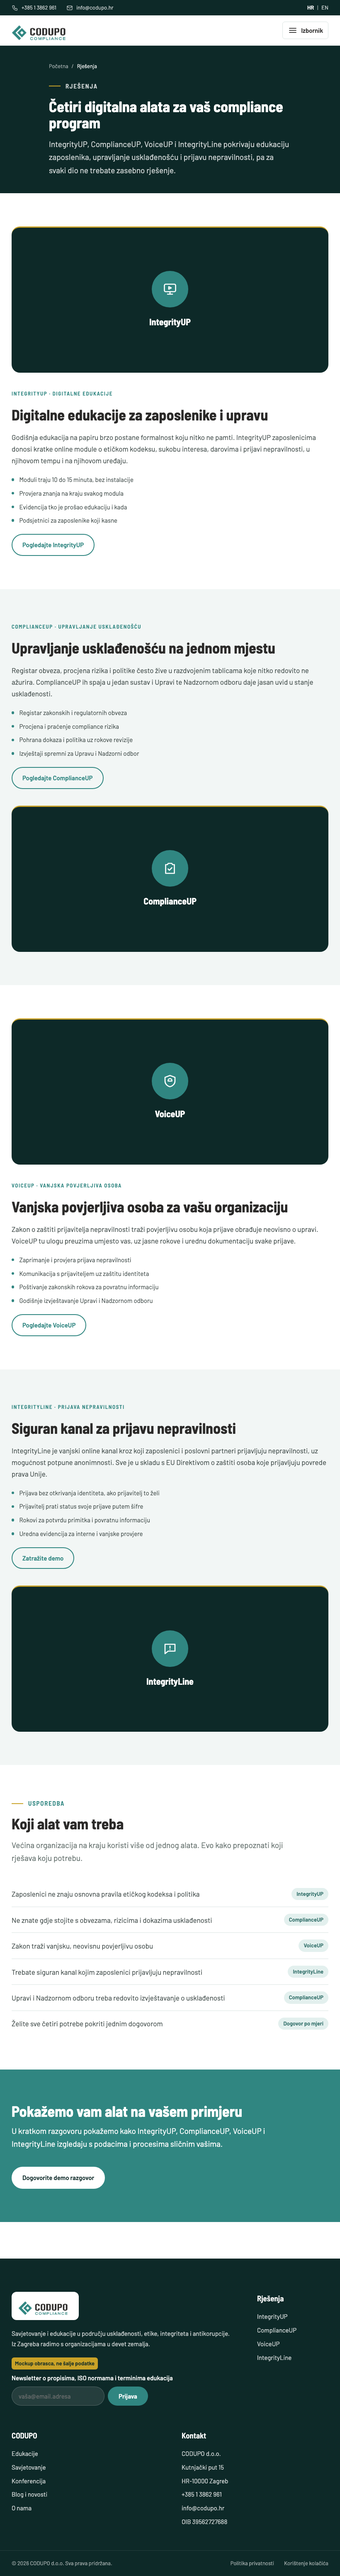
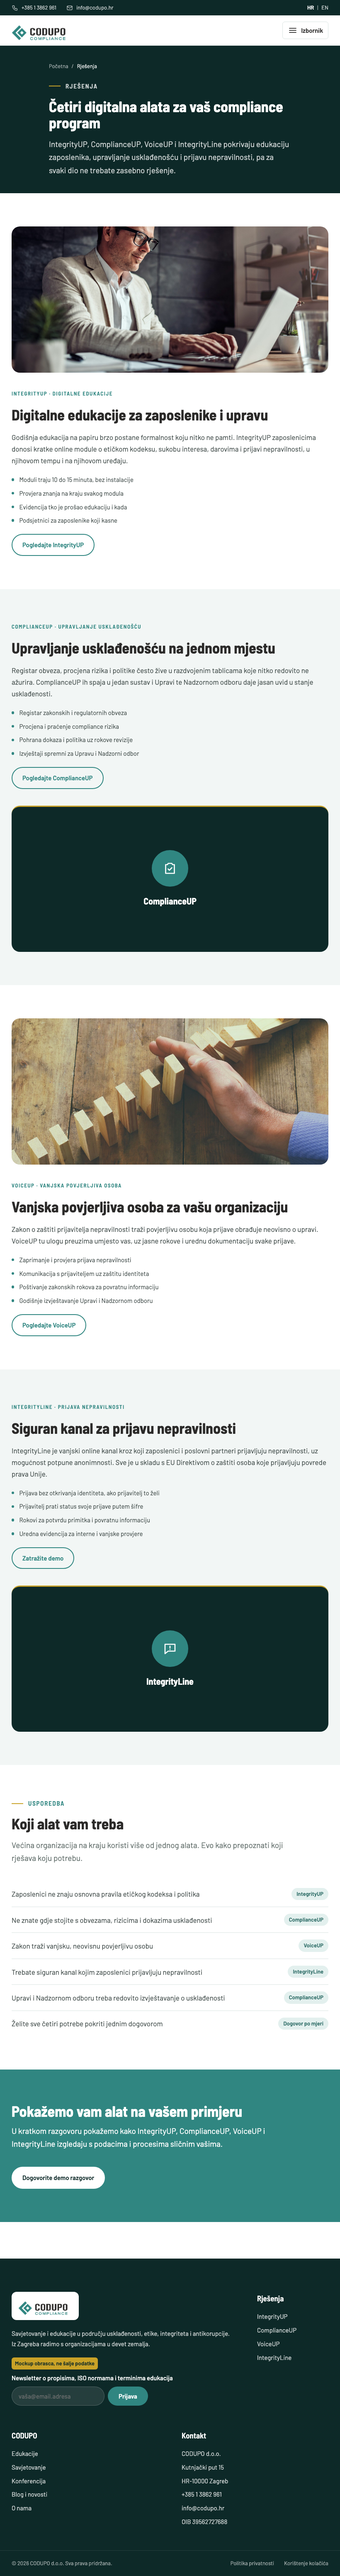
Fotografije za dva bloka na Rješenjima, popravak preview servera
IntegrityUP i VoiceUP sada imaju prave fotografije iz assets-src
(compliance-bez-ičega-scaled.jpg, Slider01.jpg) umjesto ikonskog panela,
nakon pregleda preko 25 fotografija i odabira jedinih dviju koje nisu
otrcani WordPress stock/clipart. ComplianceUP i IntegrityLine zadržavaju
.tool-visual dok se ne nađe nešto prikladno. CLAUDE.md ažuriran s
napomenom i otvorenim pitanjem o licenci.

launch.json preview_start sada koristi Node.js umjesto Pythona, jer
python3 u Browser pane sandboxu baca PermissionError na os.getcwd()
čak i pri resolveanju import mehanizma.

Changed region(s): [[0.0305, 0.3735, 0.9756, 0.4669], [0.0305, 0.0623, 0.9756, 0.1556]]

diff --git a/rjesenja.html b/rjesenja.html
@@ -34,10 +34,7 @@
     <section class="section" id="integrityup">
       <div class="container split split-start">
         <div class="split-media">
-          <div class="tool-visual">
-            <span class="tool-visual-icon"><svg class="icon-xl" viewBox="0 0 24 24" aria-hidden="true"><rect x="3" y="4" width="18" height="12" rx="2"/><path d="M8 20h8M12 16v4M10 8l4 2-4 2z"/></svg></span>
-            <span class="tool-visual-label">IntegrityUP</span>
-          </div>
+          <img class="media-photo" src="images/compliance-bez-ičega-scaled.jpg" alt="Zaposlenik prolazi digitalnu edukaciju na laptopu">
         </div>
         <div class="split-content">
           <span class="card-kicker">IntegrityUP · Digitalne edukacije</span>
@@ -82,10 +79,7 @@
     <section class="section" id="voiceup">
       <div class="container split split-start">
         <div class="split-media">
-          <div class="tool-visual">
-            <span class="tool-visual-icon"><svg class="icon-xl" viewBox="0 0 24 24" aria-hidden="true"><path d="M12 3 4 6v6c0 4.5 3.4 8 8 9 4.6-1 8-4.5 8-9V6z"/><path d="M9 11a3 3 0 0 1 6 0v1H9z"/></svg></span>
-            <span class="tool-visual-label">VoiceUP</span>
-          </div>
+          <img class="media-photo" src="images/Slider01.jpg" alt="Ruka zaustavlja niz kockica domina, simbol pravovremenog zaustavljanja problema">
         </div>
         <div class="split-content">
           <span class="card-kicker">VoiceUP · Vanjska povjerljiva osoba</span>

diff --git a/CLAUDE.md b/CLAUDE.md
@@ -264,7 +264,11 @@ Za svaku stranicu vrijedi:
 
 Svrha: pregled četiriju digitalnih alata i ulaz u podstranice.
 
-Napomena: umjesto fotografija (otvoreno pitanje 3 i 4 u poglavlju 7 još nije riješeno) svaki od četiri bloka ima `.tool-visual`, ikonski panel u bojama brenda. Kad vlasnik odobri Artlist ili potvrdi Shutterstock licencu, te panele možemo zamijeniti pravim slikama ili snimkama ekrana alata. Tekst za sva četiri alata (uključujući VoiceUP i IntegrityLine, prošireno naspram naslovne) i dalje čeka potvrdu vlasnika (otvoreno pitanje 1).
+Napomena o slikama: pregledano je preko 25 fotografija iz `assets-src/` za ova četiri bloka. Velika većina je otrcan WordPress stock/clipart (natpisi „COMPLIANCE”, „INTEGRITY” preko slike, crtani kompasi, stock modeli) koji ne pristaje uz pecb.com smjer, ili su doslovno `shutterstock_*`/`Depositphotos_*` datoteke s neriješenom licencom (otvoreno pitanje 4). Pronađene su dvije fotografije bez teksta i bez `shutterstock_` oznake koje pristaju uz dizajn:
+- `images/compliance-bez-ičega-scaled.jpg` (čovjek radi na laptopu) za IntegrityUP.
+- `images/Slider01.jpg` (ruka zaustavlja domino kockice) za VoiceUP.
+
+ComplianceUP i IntegrityLine zadržavaju `.tool-visual` ikonski panel jer ništa prikladno nije pronađeno za njih. Vlasnik je potvrdio (4. 11. 2026.) da koristimo najbolje dostupno iz `assets-src/`; ipak vrijedi kasnije zamijeniti preostala dva panela i ova dva stock izbora pravim fotografijama alata ili Silvijinim/CODUPO snimkama kad budu dostupne. Tekst za sva četiri alata (uključujući VoiceUP i IntegrityLine, prošireno naspram naslovne) i dalje čeka potvrdu vlasnika (otvoreno pitanje 1).
 
 Sekcije:
 
@@ -415,7 +419,7 @@ Sadržaj za predložak: jedan stvarni članak sa starog weba (npr. o Pravilniku 
 1. Potvrda teksta za IntegrityUP, ComplianceUP, VoiceUP i IntegrityLine (opisi su sada napisani bez izvora).
 2. Konferencija: prikazati 2026. kao održanu ili najaviti 2027.? Ima li datum i tema za 2027.?
 3. Smijemo li koristiti Artlist za zamjenu loših fotografija (troši kredite)?
-4. Licence za Shutterstock fotografije na novom webu.
+4. Licence za Shutterstock fotografije na novom webu. Dvije slike bez `shutterstock_` oznake su u upotrebi na `rjesenja.html` (`compliance-bez-ičega-scaled.jpg`, `Slider01.jpg`) uz vlasnikovo dopuštenje da koristimo najbolje dostupno iz `assets-src/`, ali izvor/licenca tih dviju nije posebno provjerena.
 5. Smijemo li prikazati logotipe klijenata?
 6. Format IntegrityTalka (podcast, video, članci).
 7. Engleska verzija: preklopnik HR | EN postoji u headeru, ali EN stranice nisu u planu. Radimo li ih?
